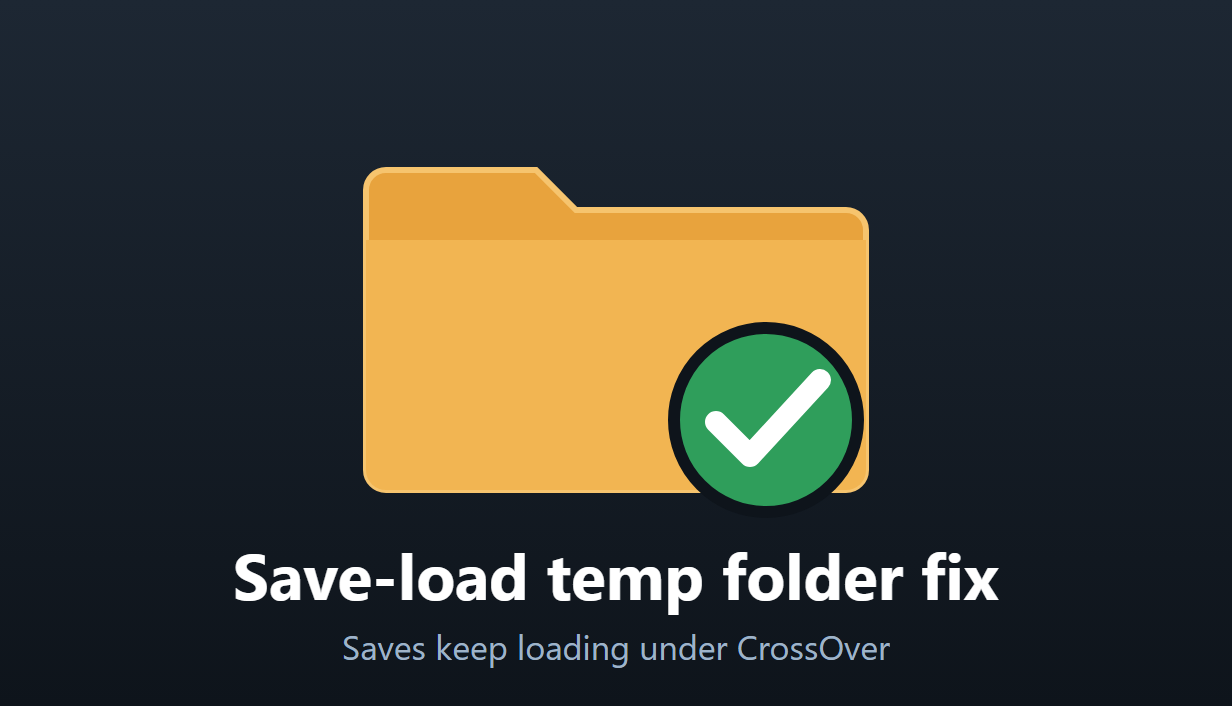
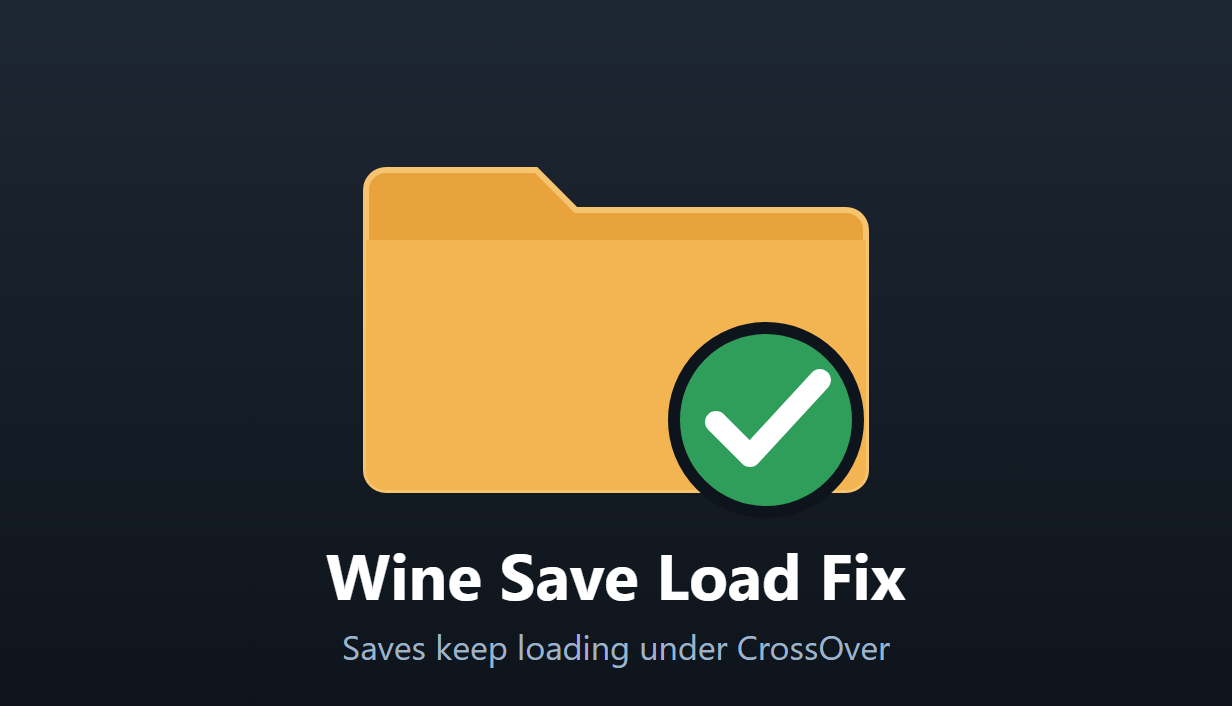
Rename to Wine Save Load Fix (stationeers-wine-load-fix)
The mod doesn't fix saves: it keeps a load going when the temporary folder
can't be deleted, which happens under CrossOver/Wine. The ModID, assembly,
display name and preview now say so.

Changed region(s): [[0.1851, 0.779, 0.8328, 0.8725]]

diff --git a/src/Plugin.cs b/src/Plugin.cs
@@ -9,7 +9,7 @@ using BepInEx;
 using BepInEx.Logging;
 using HarmonyLib;
 
-namespace SaveLoadTempFix
+namespace WineLoadFix
 {
     /// <summary>
     /// Loading a save unpacks it into a fresh folder under the system's temporary directory, loads
@@ -18,10 +18,10 @@ namespace SaveLoadTempFix
     /// load as failed. This plugin makes just that one delete, in <c>LoadHelper.LoadWorldTask</c>,
     /// log a failure and carry on, leaving the folder behind.
     /// </summary>
-    [BepInPlugin(Guid, "Save-load temp folder fix", "0.1.0")]
+    [BepInPlugin(Guid, "Wine Save Load Fix", "0.1.0")]
     public class Plugin : BaseUnityPlugin
     {
-        public const string Guid = "com.github.subitan.stationeers-savefix";
+        public const string Guid = "com.github.subitan.stationeers-wine-load-fix";
 
         internal static ManualLogSource Log;
 

diff --git a/README.md b/README.md
@@ -1,4 +1,4 @@
-# Save-load temp folder fix (Stationeers)
+# Wine Save Load Fix (Stationeers)
 
 A BepInEx plugin. To load a save, Stationeers unpacks it into a fresh folder under the
 temporary directory, loads the world from there, and then deletes the folder. Under CrossOver
@@ -16,10 +16,10 @@ else is touched, and where the delete works (Windows) nothing changes.
 ## Install
 
 It is a [StationeersLaunchPad](https://github.com/StationeersLaunchPad/StationeersLaunchPad)
-plugin mod: with BepInEx and StationeersLaunchPad installed, copy the `SaveLoadTempFix` folder of
+plugin mod: with BepInEx and StationeersLaunchPad installed, copy the `WineLoadFix` folder of
 a release (or of `dist/`, below) into StationeersLaunchPad's local mods directory
-(`Documents/My Games/Stationeers/mods`), so it holds `SaveLoadTempFix.dll` and `About/`, and
-enable it in the mod list. Without StationeersLaunchPad, copy just `SaveLoadTempFix.dll` into
+(`Documents/My Games/Stationeers/mods`), so it holds `WineLoadFix.dll` and `About/`, and
+enable it in the mod list. Without StationeersLaunchPad, copy just `WineLoadFix.dll` into
 `BepInEx/plugins/`.
 
 On start, BepInEx's log (`BepInEx/LogOutput.log`) says "A failure to delete a loaded save's
@@ -30,8 +30,8 @@ applies, it says "nothing patched" instead and does nothing.
 
     STATIONEERS_DIR=<the game's install directory> dotnet build -c Release
 
-The DLL is `bin/Release/net48/SaveLoadTempFix.dll`. With `-t:Dist`, the mod's layout is also
-put in `dist/SaveLoadTempFix`.
+The DLL is `bin/Release/net48/WineLoadFix.dll`. With `-t:Dist`, the mod's layout is also
+put in `dist/WineLoadFix`.
 
 `About/Preview.png` and `About/thumb.png` are rendered at 1232×706 from `art/preview.svg`, an
 original drawing, with any browser.
